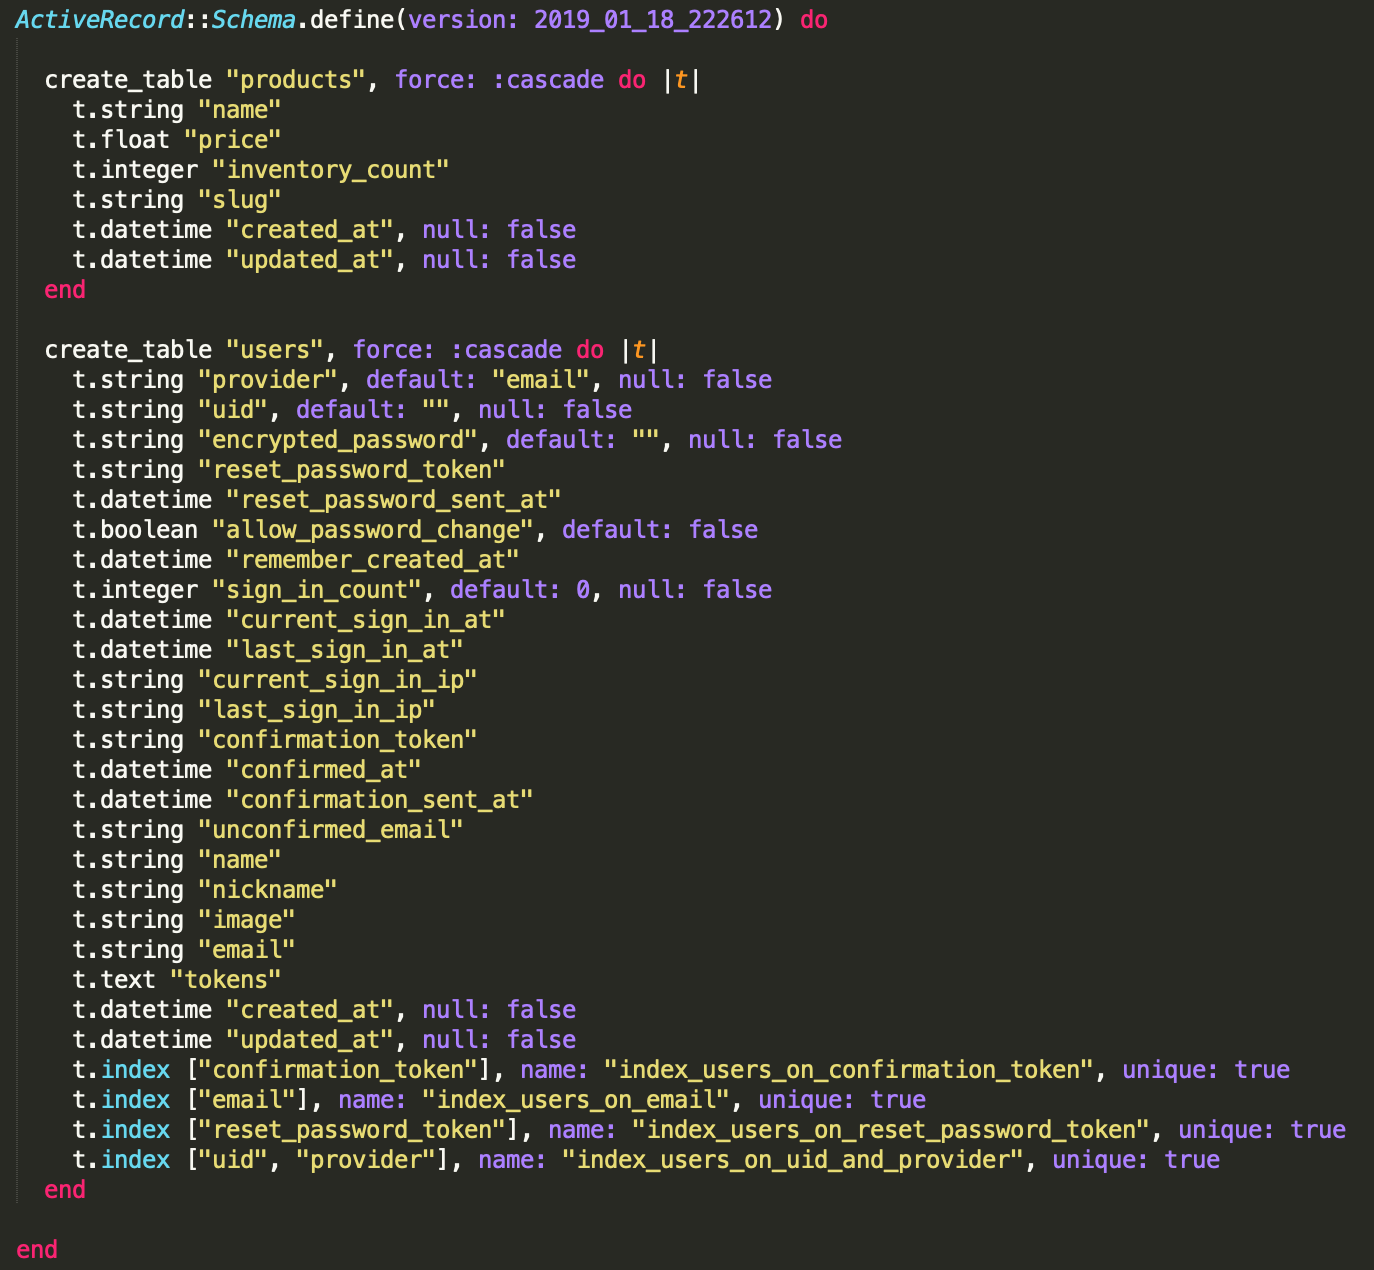
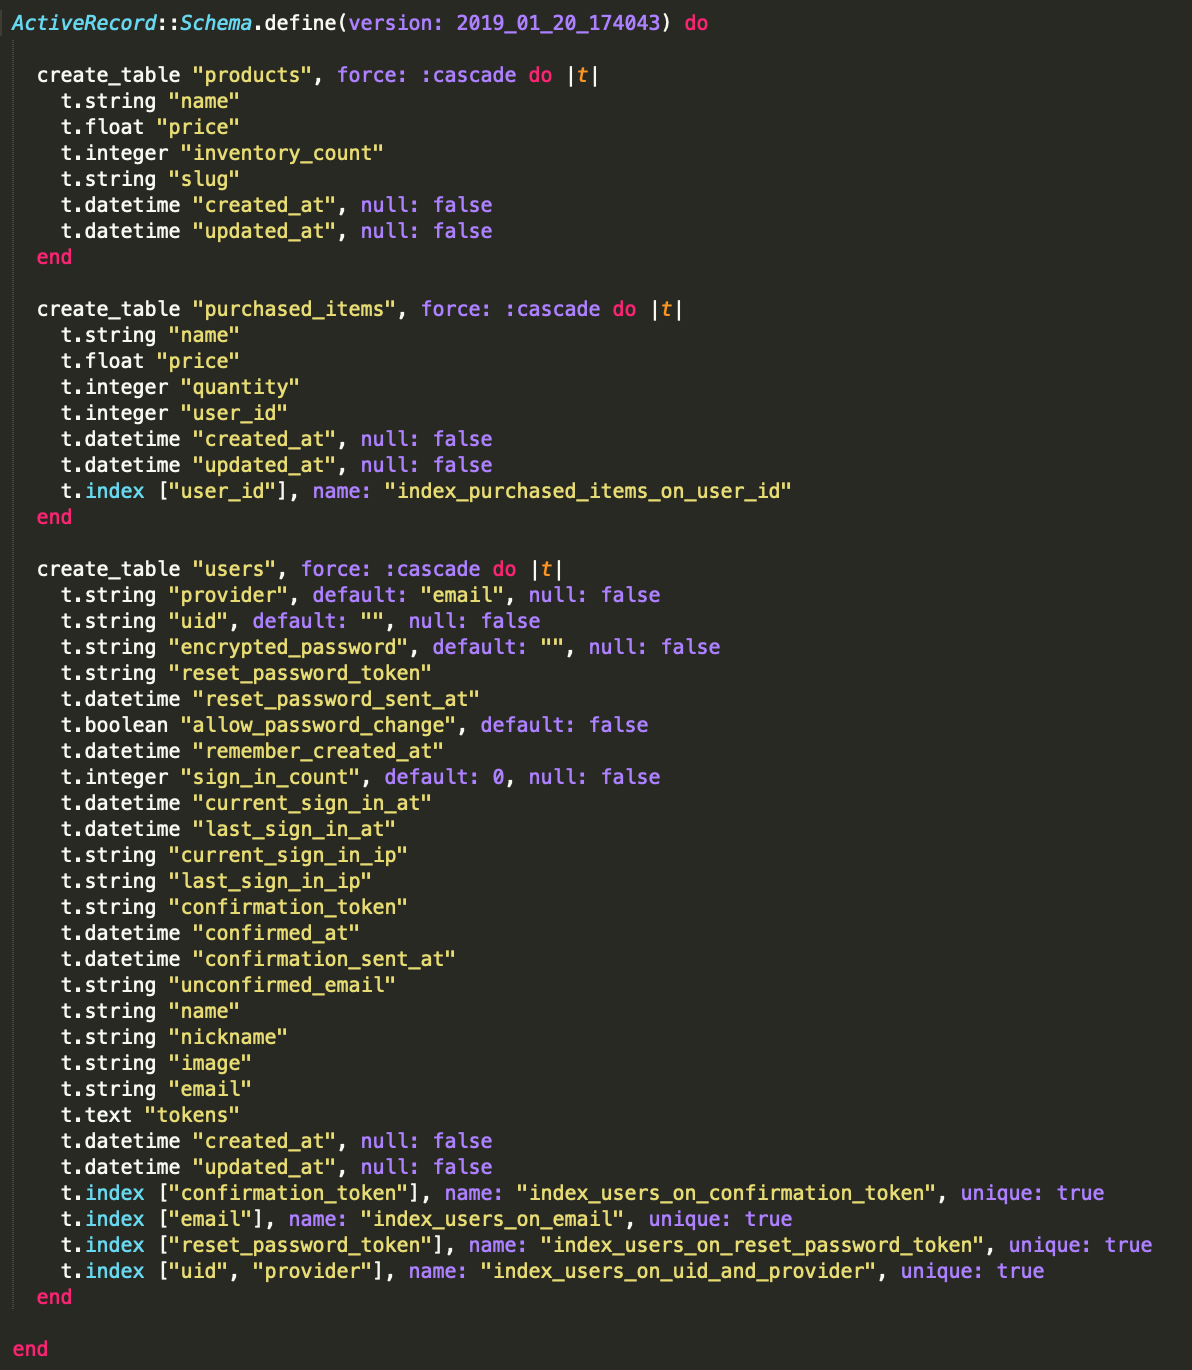
Finalized changes for purchase.

Changed region(s): [[0.0, 0.0, 0.9933, 0.952], [0.4346, 0.215, 0.5587, 0.2457], [0.0, 0.9827, 0.0621, 1.0]]

diff --git a/app/controllers/api/v1/products_controller.rb b/app/controllers/api/v1/products_controller.rb
@@ -2,13 +2,50 @@ module Api
   module V1
     class ProductsController < ApiController
       before_action :authenticate_user!
-      before_action :set_product, only: [:update, :destroy]
+      before_action :set_product, only: [:update, :destroy, :individual, :purchase]
 
       def index
         begin
           @products = Product.where(nil)
           @products = @products.available if params[:available] == "true"
           render_success(data: @products)
+        rescue StandardError => e 
+          # Performing Logging and Crashlytics here.
+          throw_internal_server_error
+          puts e
+        end
+      end
+
+      def individual
+        begin
+          if @product
+            render_success(data: @product) 
+          else
+            throw_not_found()
+          end
+        rescue StandardError => e 
+          # Performing Logging and Crashlytics here.
+          throw_internal_server_error
+          puts e
+        end
+      end
+
+      def purchase
+        begin
+          if @product && params[:quantity] && params[:quantity].to_i > 0
+            if @product.inventory_count > 0
+              result = current_user.purchase(@product,params[:quantity].to_i)
+              if result
+                render_success(data: @product) 
+              else
+                throw_unprocessable
+              end
+            else
+              throw_unprocessable(message: "The requested quantity is not available in the inventory.")
+            end
+          else
+            throw_not_found
+          end
         rescue StandardError => e 
           # Performing Logging and Crashlytics here.
           throw_internal_server_error

diff --git a/db/schema.rb b/db/schema.rb
@@ -10,23 +10,7 @@
 #
 # It's strongly recommended that you check this file into your version control system.
 
-ActiveRecord::Schema.define(version: 2019_01_18_225535) do
-
-  create_table "cart_items", force: :cascade do |t|
-    t.integer "product_id"
-    t.integer "quantity"
-    t.integer "cart_id"
-    t.datetime "created_at", null: false
-    t.datetime "updated_at", null: false
-    t.index ["cart_id"], name: "index_cart_items_on_cart_id"
-    t.index ["product_id"], name: "index_cart_items_on_product_id"
-  end
-
-  create_table "carts", force: :cascade do |t|
-    t.string "identifier"
-    t.datetime "created_at", null: false
-    t.datetime "updated_at", null: false
-  end
+ActiveRecord::Schema.define(version: 2019_01_20_174043) do
 
   create_table "products", force: :cascade do |t|
     t.string "name"
@@ -35,6 +19,16 @@ ActiveRecord::Schema.define(version: 2019_01_18_225535) do
     t.string "slug"
     t.datetime "created_at", null: false
     t.datetime "updated_at", null: false
+  end
+
+  create_table "purchased_items", force: :cascade do |t|
+    t.string "name"
+    t.float "price"
+    t.integer "quantity"
+    t.integer "user_id"
+    t.datetime "created_at", null: false
+    t.datetime "updated_at", null: false
+    t.index ["user_id"], name: "index_purchased_items_on_user_id"
   end
 
   create_table "users", force: :cascade do |t|

diff --git a/app/models/user.rb b/app/models/user.rb
@@ -6,4 +6,15 @@ class User < ActiveRecord::Base
   devise :database_authenticatable, :registerable,
          :recoverable, :rememberable, :trackable, :validatable
   include DeviseTokenAuth::Concerns::User
+
+  def purchase(product,quantity)
+  	if product && product.inventory_count > 0 && product.inventory_count >= quantity
+  		purchased_item = PurchasedItem.create(name: product.name,price: product.price,quantity: quantity,user: self)
+  		product.inventory_count = product.inventory_count - quantity
+  		product.save
+  		return purchased_item
+  	else
+  		return nil
+  	end
+  end
 end

diff --git a/config/routes.rb b/config/routes.rb
@@ -9,6 +9,8 @@ Rails.application.routes.draw do
   namespace :api do
     namespace :v1 do
       get 'products' => 'products#index'
+      get 'products/:id' => 'products#individual'
+      post 'products/:id/purchase' => 'products#purchase'
       put 'products/:id/update' => 'products#update'
       post 'products/create' => 'products#create'
       delete 'products/:id/destroy' => 'products#destroy'

diff --git a/db/migrate/20190120174043_create_purchased_items.rb b/db/migrate/20190120174043_create_purchased_items.rb
@@ -1,0 +1,12 @@
+class CreatePurchasedItems < ActiveRecord::Migration[5.2]
+  def change
+    create_table :purchased_items do |t|
+      t.string :name
+      t.float :price
+      t.integer :quantity
+      t.references :user, foreign_key: true
+
+      t.timestamps
+    end
+  end
+end

diff --git a/test/models/purchased_item_test.rb b/test/models/purchased_item_test.rb
@@ -1,0 +1,7 @@
+require 'test_helper'
+
+class PurchasedItemTest < ActiveSupport::TestCase
+  # test "the truth" do
+  #   assert true
+  # end
+end

diff --git a/app/models/purchased_item.rb b/app/models/purchased_item.rb
@@ -1,0 +1,3 @@
+class PurchasedItem < ApplicationRecord
+  belongs_to :user
+end
